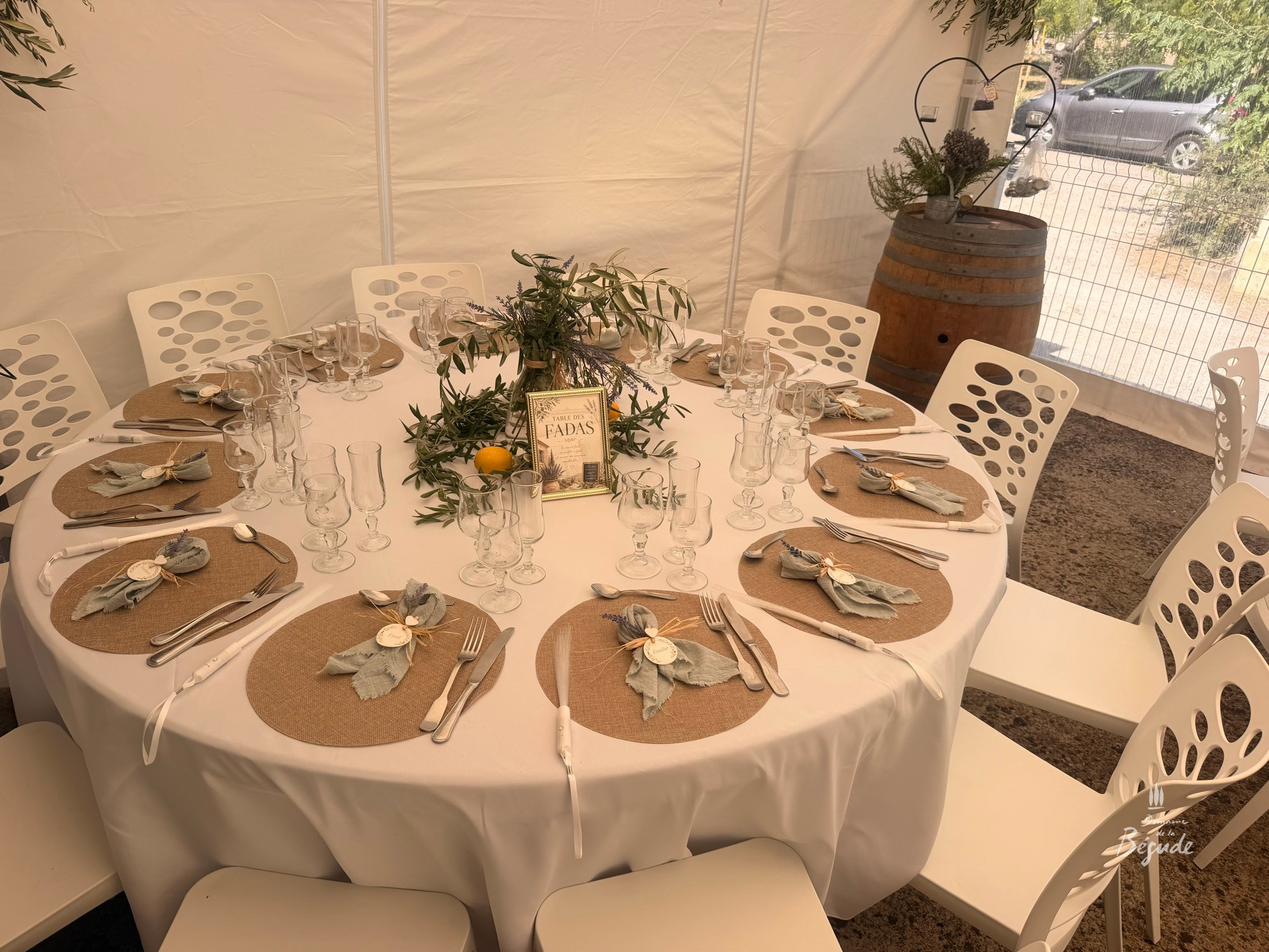
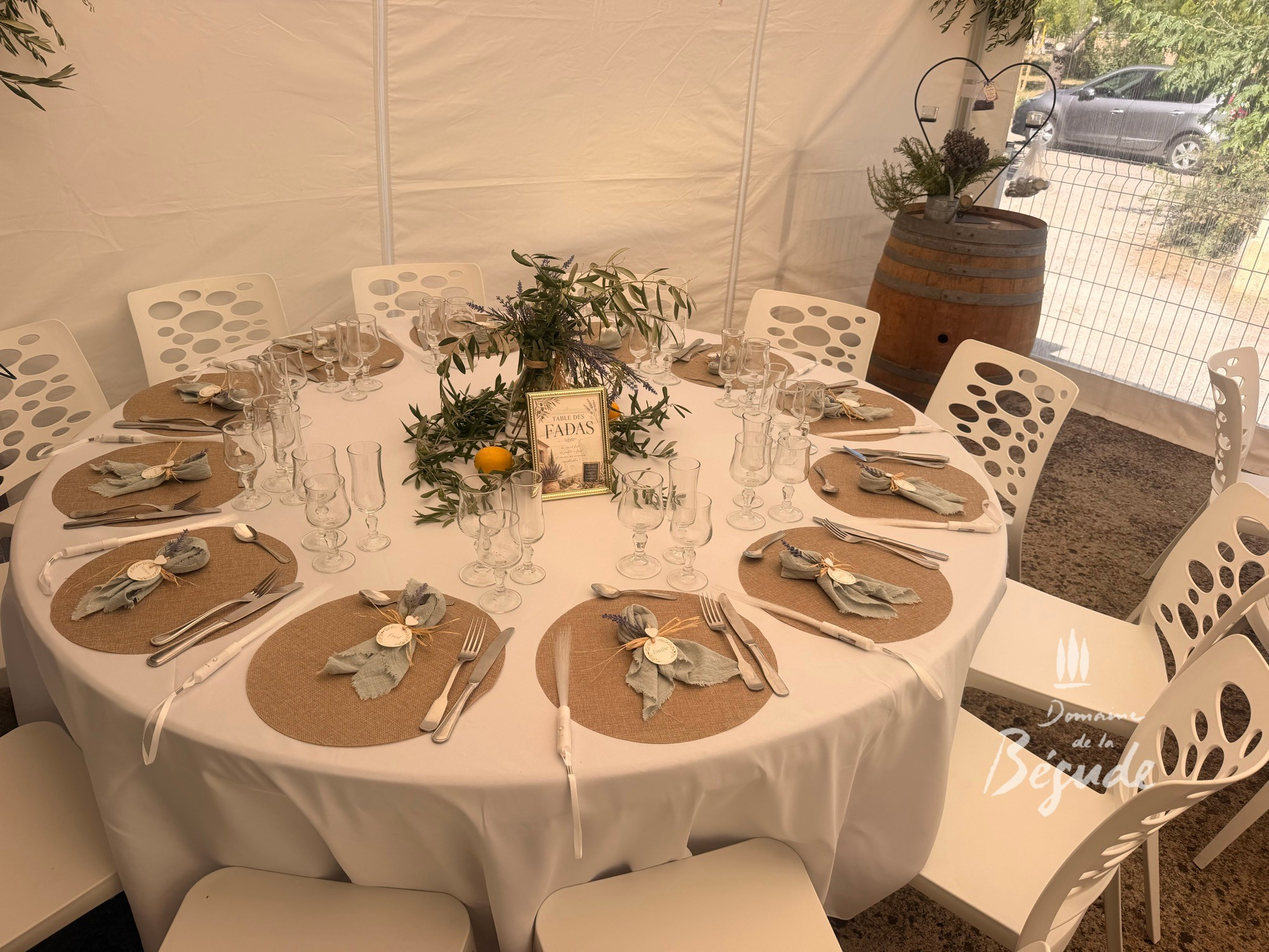
Triple the watermark size, base it on the shorter image dimension
Ratio 0.11 -> 0.33 of min(width, height) instead of width alone, which
was overflowing composite bounds on portrait photos. Re-applied to all
52 DB photos (clean single pass, all had already-correct white logo
underneath at old size) and re-stamped local originals from pristine
git history at the new size.

Claude-Session: https://claude.ai/code/session_016yBenxaGEYk3TPBzyDCW1j

Changed region(s): [[0.775, 0.6747, 0.93, 0.92]]

diff --git a/src/lib/watermark.ts b/src/lib/watermark.ts
@@ -5,7 +5,7 @@ import { readFile } from "fs/promises";
 import { join } from "path";
 
 const OPACITY = 0.6;
-const WATERMARK_WIDTH_RATIO = 0.11;
+const WATERMARK_WIDTH_RATIO = 0.33;
 const MARGIN_RATIO = 0.03;
 
 let logoBuffer: Buffer | null = null;
@@ -50,11 +50,12 @@ export async function watermarkImage(rawInput: Buffer): Promise<Buffer> {
   const width = meta.width ?? 1600;
   const height = meta.height ?? 1200;
 
-  const logoWidth = Math.round(width * WATERMARK_WIDTH_RATIO);
+  const baseSize = Math.min(width, height);
+  const logoWidth = Math.round(baseSize * WATERMARK_WIDTH_RATIO);
   const logo = await fadedLogo(logoWidth);
   const logoMeta = await sharp(logo).metadata();
   const logoHeight = logoMeta.height ?? Math.round(logoWidth * 0.5);
-  const margin = Math.round(width * MARGIN_RATIO);
+  const margin = Math.round(baseSize * MARGIN_RATIO);
 
   return image
     .composite([
